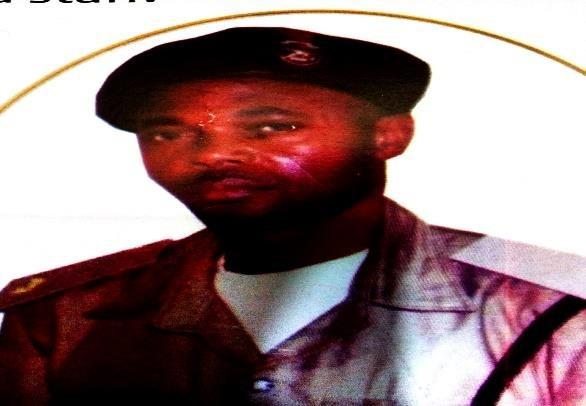
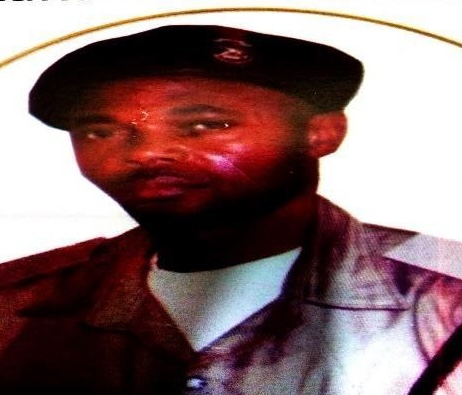
Add cover page enhancements and 3-D flipbook effects for improved user experience

diff --git a/index.html b/index.html
@@ -68,7 +68,36 @@
       box-sizing: border-box;
       padding: 2rem;
       text-align: center;
+      position: relative;
       box-shadow: 0 0 60px 18px rgba(255,255,255,0.18), 0 0 120px 40px rgba(255,255,255,0.08);
+    }
+    /* Book spine indicator on the binding (left) edge */
+    .cover-page::before {
+      content: '';
+      position: absolute;
+      left: 0; top: 0; bottom: 0;
+      width: 14px;
+      background: linear-gradient(to right, #8b0000 0%, #5a0000 55%, transparent 100%);
+      border-right: 1px solid #ff444422;
+      z-index: 1;
+      pointer-events: none;
+    }
+    /* Page stack on the fore edge (right / opening side) */
+    .cover-page::after {
+      content: '';
+      position: absolute;
+      right: 0; top: 3px; bottom: 3px;
+      width: 16px;
+      transform: translateX(100%);
+      background: repeating-linear-gradient(
+        to bottom,
+        #3a0808 0px, #3a0808 1px,
+        #260404 1px, #260404 2px,
+        #4a1010 2px, #4a1010 3px,
+        #260404 3px, #260404 4px
+      );
+      z-index: 1;
+      pointer-events: none;
     }
     .cover-page img { width: 220px; filter: drop-shadow(0 0 18px #ff444466); }
     .cover-title {
@@ -134,13 +163,15 @@
       letter-spacing: 0.05em;
     }
     .hero-photo-frame {
-      width: 260px; height: 260px;
-      border-radius: 50%;
+      width: 260px; height: 300px;
+      border-radius: 4px;
       border: 4px solid #ff4444;
       overflow: hidden;
       flex-shrink: 0;
       margin-top: 1.8rem;
-      box-shadow: 0 0 32px #ff444455, 0 0 8px #ff444488;
+      box-shadow: 0 0 32px #ff444455, 0 0 8px #ff444488,
+                  inset 0 0 0 3px #1a0000,
+                  inset 0 0 0 6px #ff444433;
     }
     .hero-photo-frame img {
       width: 100%; height: 100%;
@@ -212,6 +243,43 @@
     }
     .back-cover img { width: 80px; opacity: 0.7; }
     .back-cover p { color: #ffbbbb; font-size: 0.85rem; font-style: italic; line-height: 1.7; }
+
+    /* ── 3-D book open hint ── */
+    .cover-open-hint {
+      position: absolute;
+      right: 20px;
+      top: 50%;
+      transform: translateY(-50%);
+      display: flex;
+      flex-direction: column;
+      align-items: center;
+      gap: 10px;
+      z-index: 20;
+      pointer-events: none;
+      animation: hintFadeIn 1.5s ease 1.2s both;
+    }
+    .cover-open-hint .hint-text {
+      color: rgba(255, 200, 200, 0.85);
+      font-size: 0.62rem;
+      letter-spacing: 0.22em;
+      text-transform: uppercase;
+      writing-mode: vertical-lr;
+      transform: rotate(180deg);
+    }
+    .cover-open-hint .hint-arrow {
+      color: rgba(255, 150, 150, 0.9);
+      font-size: 1.3rem;
+      animation: hintArrowBounce 1.6s ease-in-out infinite;
+    }
+    @keyframes hintArrowBounce {
+      0%, 100% { transform: translateX(0);   opacity: 0.65; }
+      50%       { transform: translateX(8px); opacity: 1; }
+    }
+    @keyframes hintFadeIn {
+      from { opacity: 0; transform: translateY(-50%) translateX(-10px); }
+      to   { opacity: 1; transform: translateY(-50%) translateX(0); }
+    }
+    .book-opened .cover-open-hint { display: none; }
   </style>
 </head>
 <body style="display:flex; flex-direction:column; min-height:100vh;">
@@ -235,6 +303,10 @@
             <div class="cover-sub">FALLEN HEROES MEMORIAL BOOK</div>
             <div class="cover-count">
               85 Officers who gave their lives<br>in the line of duty
+            </div>
+            <div class="cover-open-hint">
+              <span class="hint-text">Open</span>
+              <span class="hint-arrow">&#9654;</span>
             </div>
           </div>
         </div>
@@ -3184,11 +3256,11 @@
       var pages = $('.flipbook').turn('pages');
       var half  = 1400 / 4;
       if (page === 1) {
-        $('.flipbook').css('transform', 'translateX(-' + half + 'px)');
+        $('.flipbook').css('transform', 'perspective(2500px) translateX(-' + half + 'px) rotateY(8deg)');
       } else if (page === pages) {
-        $('.flipbook').css('transform', 'translateX(' + half + 'px)');
+        $('.flipbook').css('transform', 'perspective(2500px) translateX(' + half + 'px) rotateY(-8deg)');
       } else {
-        $('.flipbook').css('transform', 'translateX(0)');
+        $('.flipbook').css('transform', 'perspective(2500px) translateX(0) rotateY(0deg)');
       }
     }
 
@@ -3207,14 +3279,22 @@
       setTimeout(function () {
         $('.flipbook').css('transition', '');
       }, 50);
-      // Reset transform during flip animation
+      // Flatten 3-D tilt during flip animation, restore after
       $('.flipbook').bind('turning', function(e, page) {
-        var pages = $(this).turn('pages');
+        var $this = $(this), pages = $this.turn('pages'), half = 1400 / 4;
         if (page !== 1 && page !== pages) {
-          $(this).css('transform', 'translateX(0)');
+          $this.css('transform', 'perspective(2500px) translateX(0) rotateY(0deg)');
+        } else if (page === 1) {
+          $this.css('transform', 'perspective(2500px) translateX(-' + half + 'px) rotateY(0deg)');
+        } else {
+          $this.css('transform', 'perspective(2500px) translateX(' + half + 'px) rotateY(0deg)');
         }
+        if (page !== 1) { $('.flipbook-viewport').addClass('book-opened'); }
       });
-      $('.flipbook').bind('turned', function () { recenter(); });
+      $('.flipbook').bind('turned', function(e, page) {
+        recenter();
+        if (page !== 1) { $('.flipbook-viewport').addClass('book-opened'); }
+      });
       $(document).keydown(function (e) {
         if (e.key === 'ArrowRight' || e.key === 'ArrowDown') $('.flipbook').turn('next');
         if (e.key === 'ArrowLeft'  || e.key === 'ArrowUp')   $('.flipbook').turn('previous');
